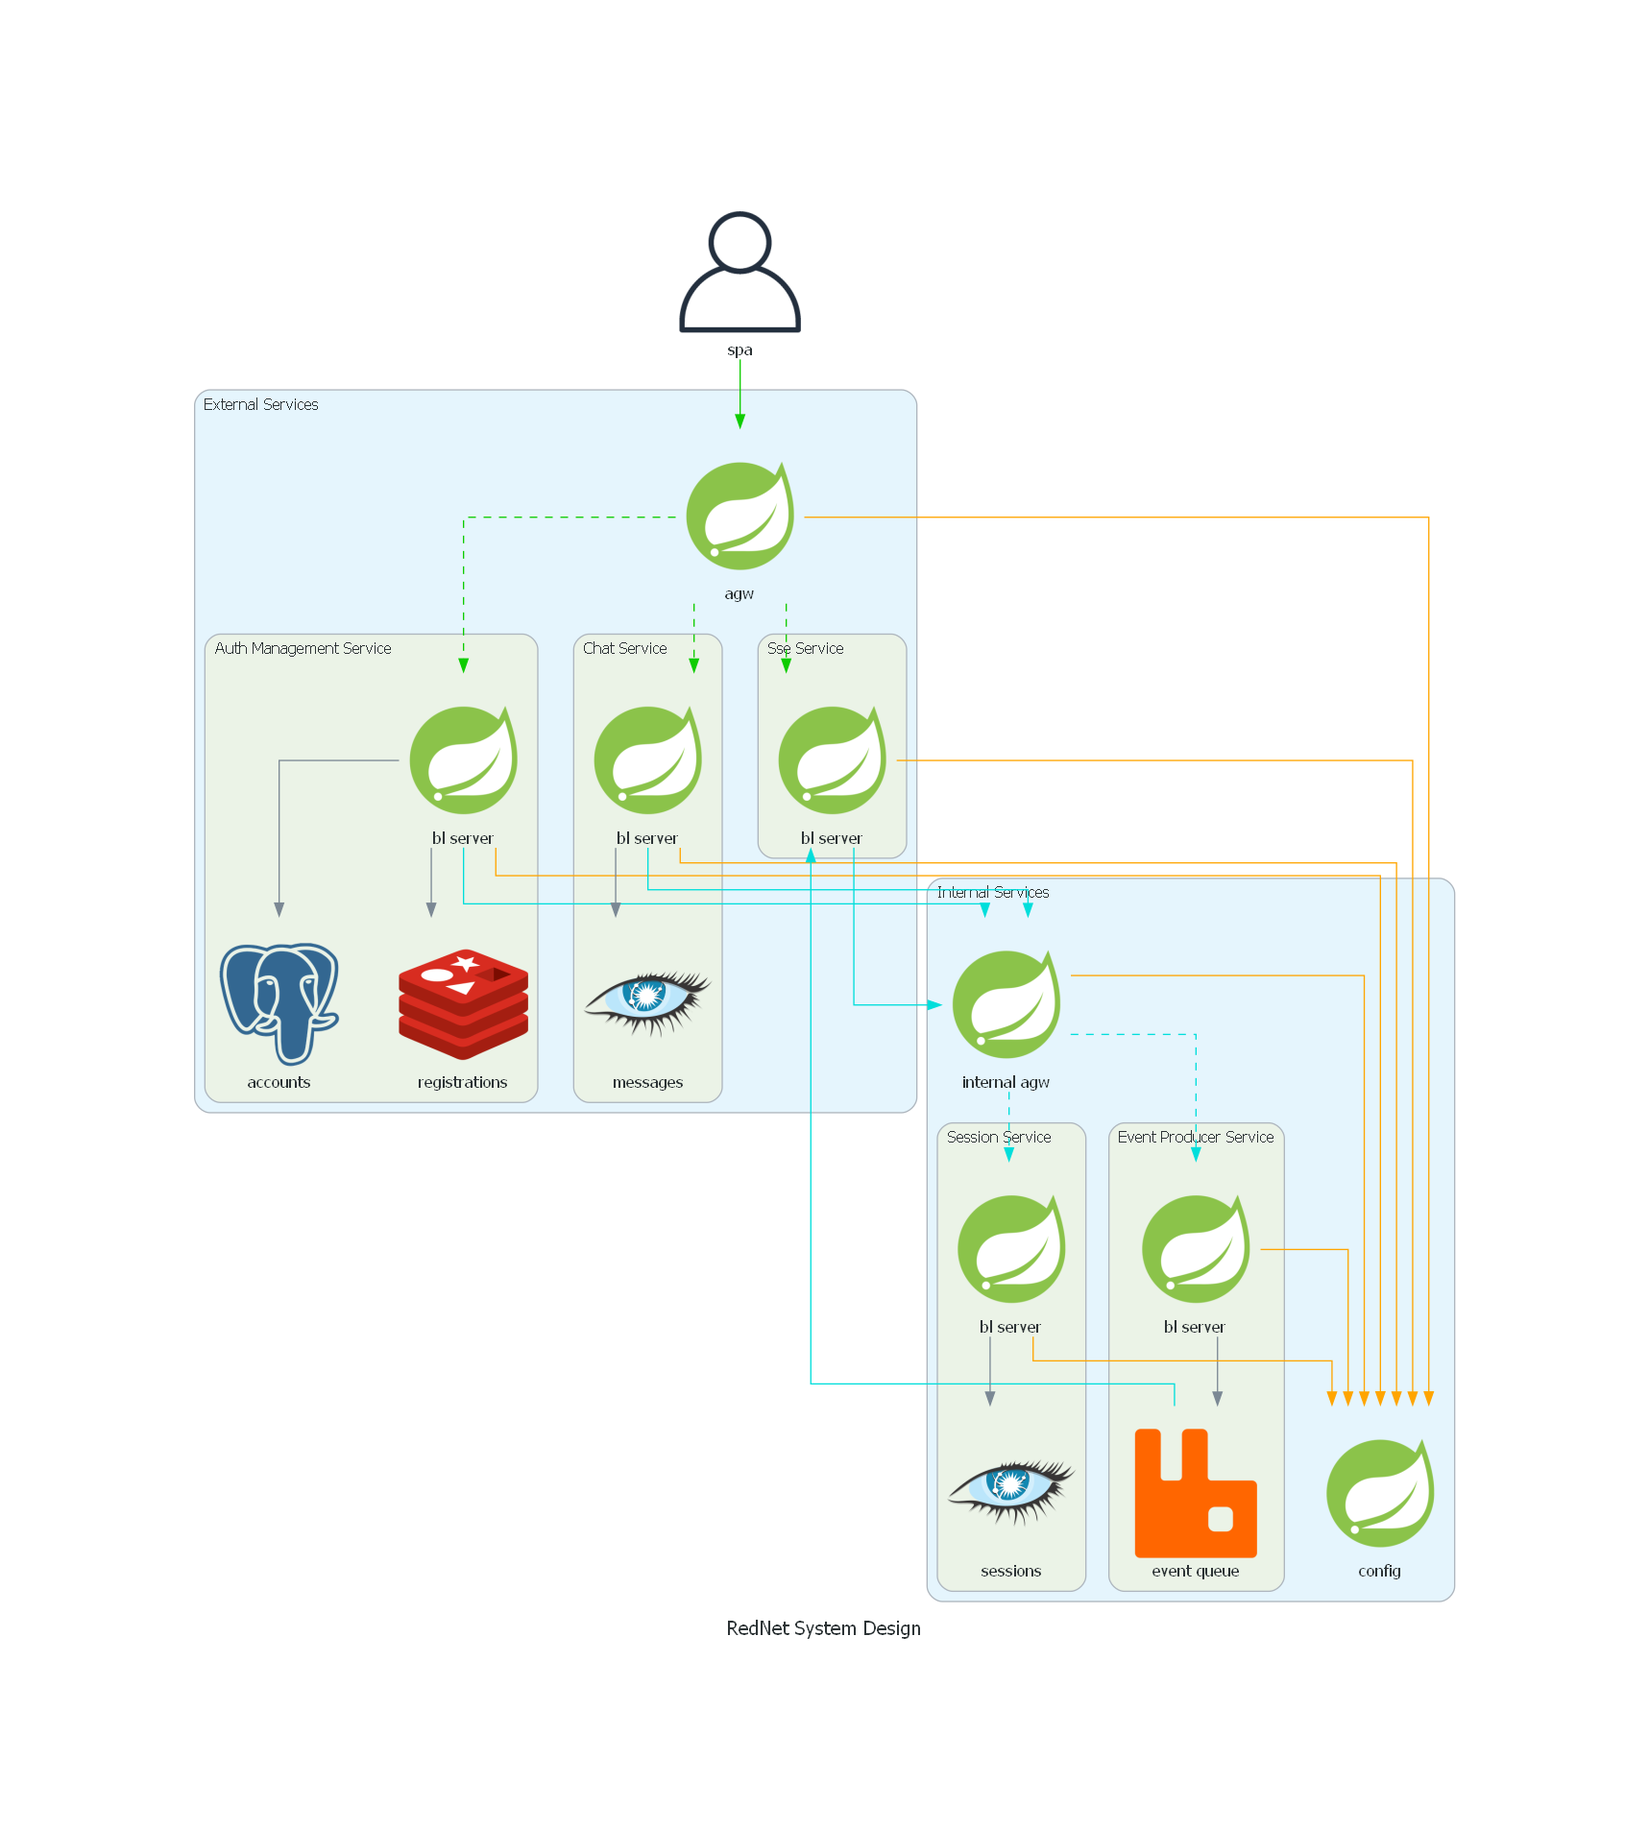
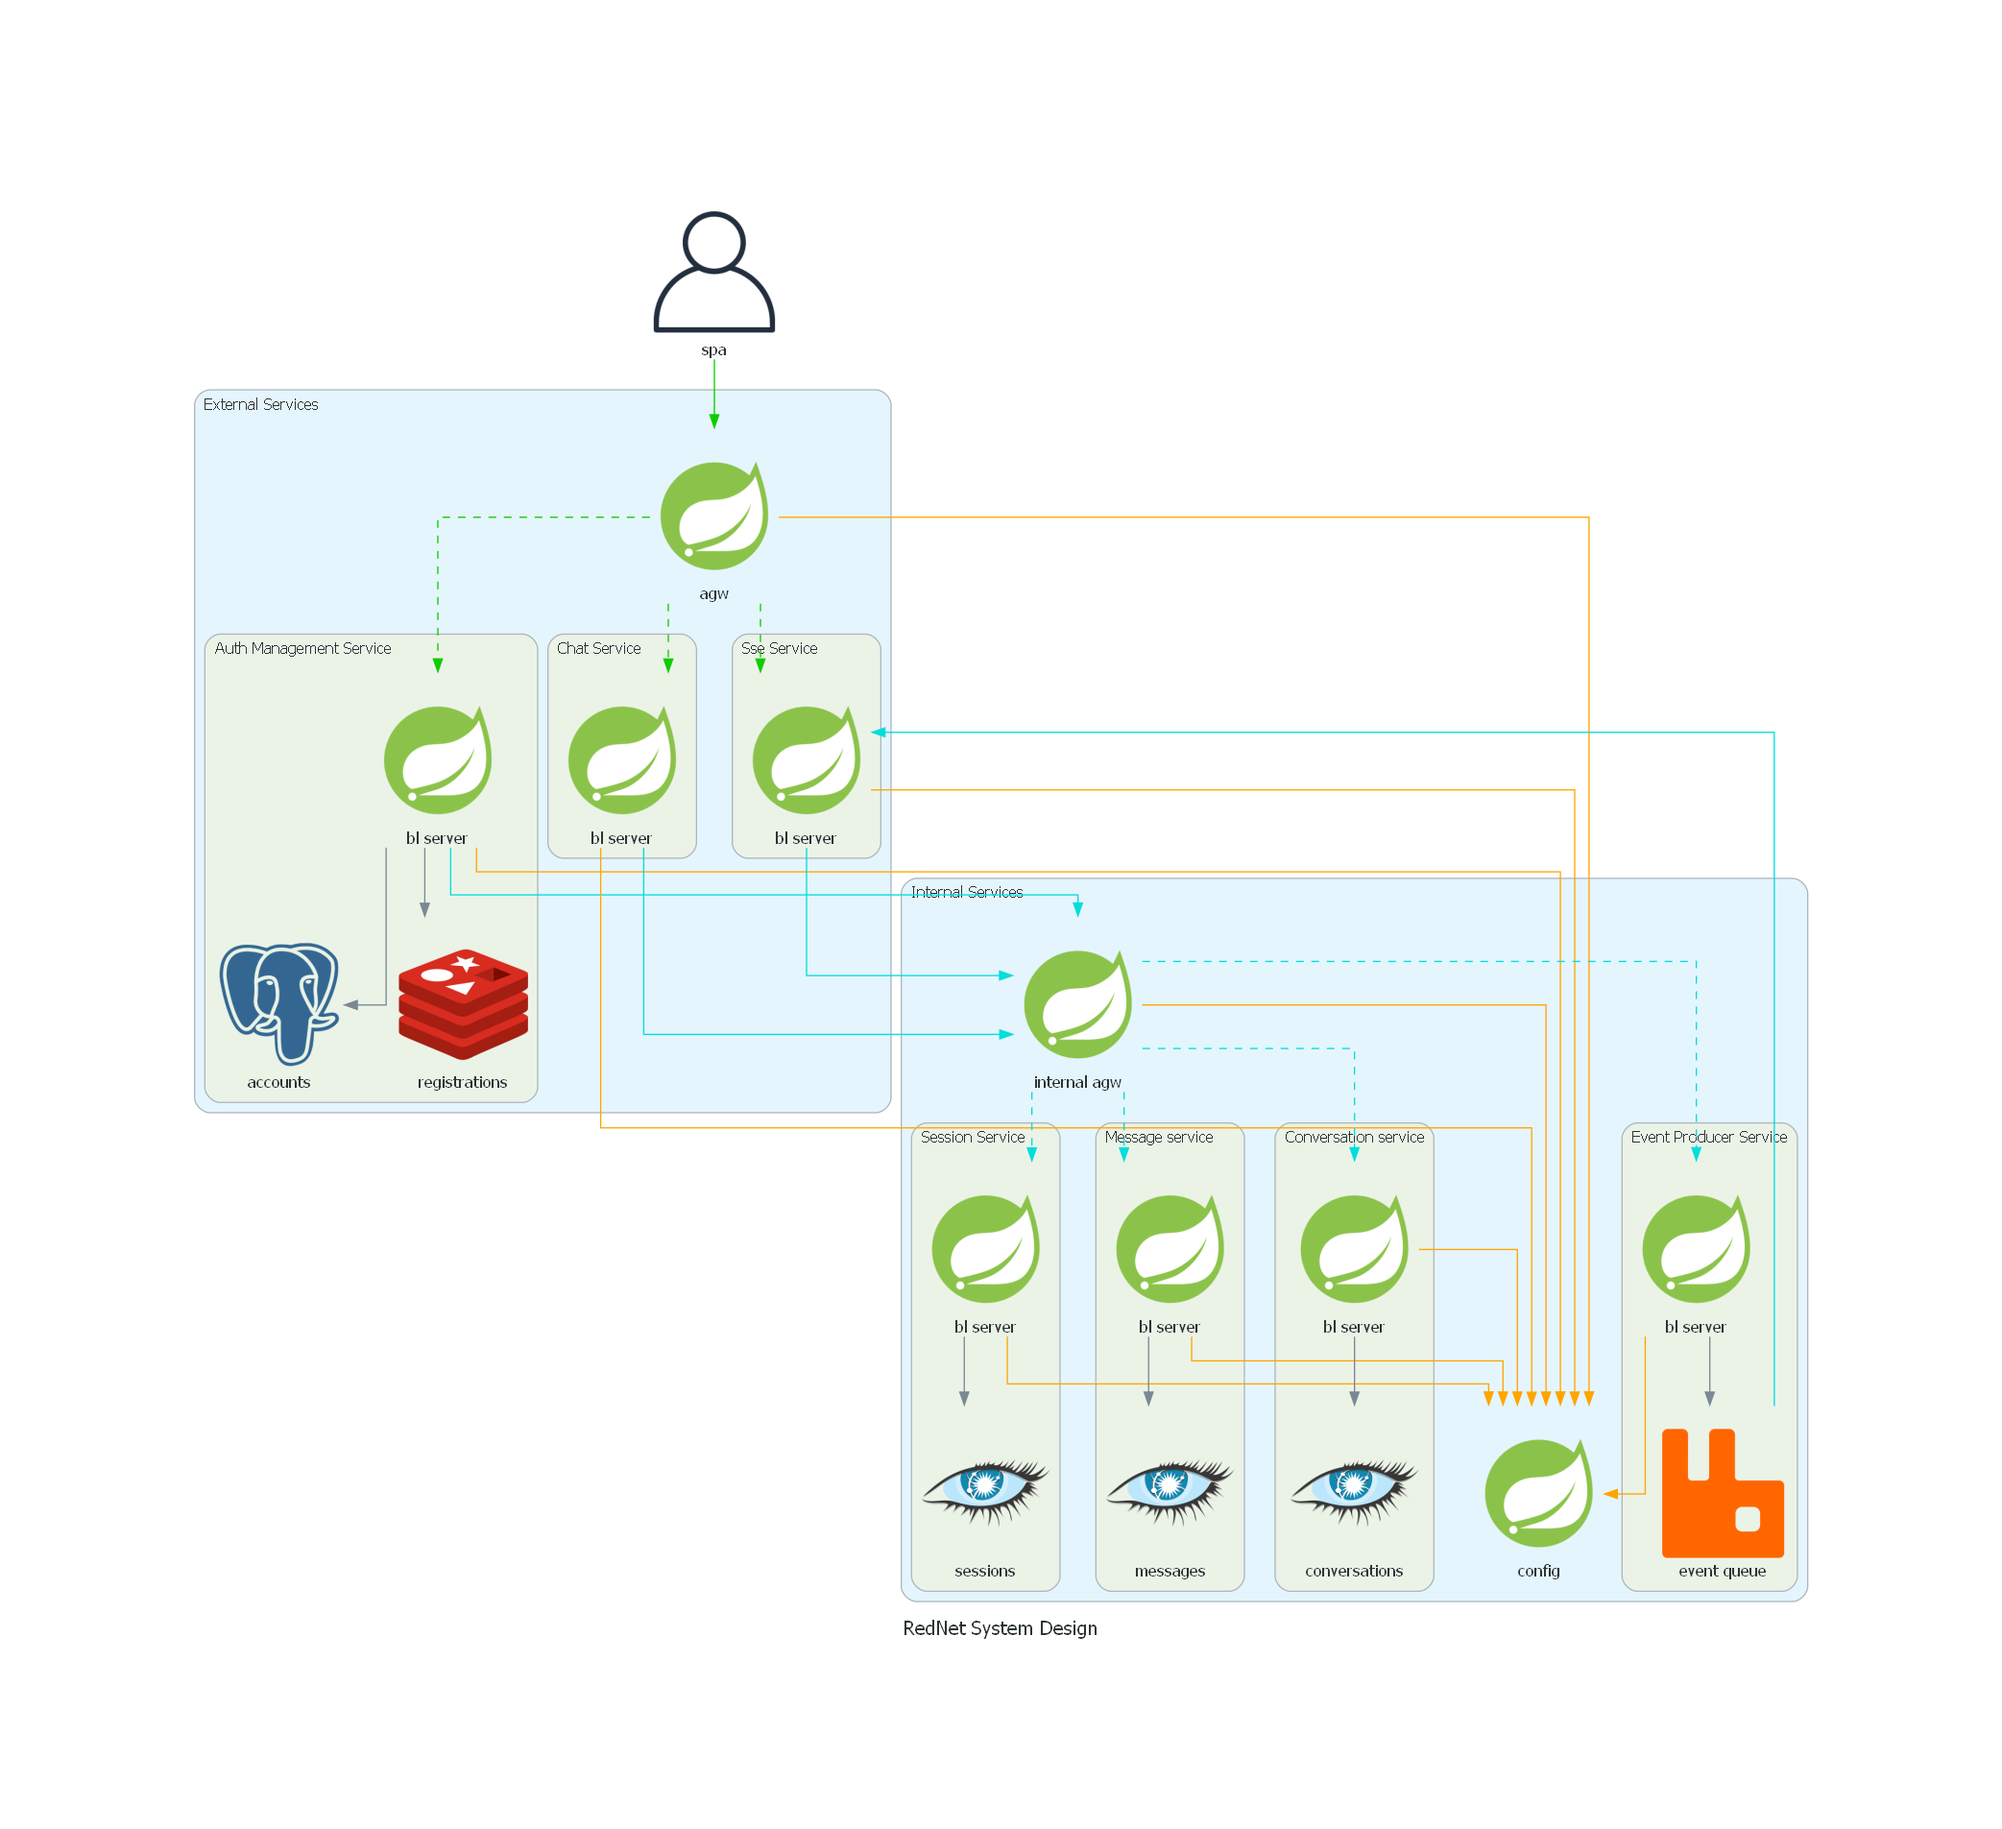
diagram change

Changed region(s): [[0.0926, 0.0929, 0.926, 0.8982]]

diff --git a/system-design-diagram.py b/system-design-diagram.py
@@ -35,9 +35,6 @@ with (Diagram(
 
         with Cluster("Chat Service"):
             chat_logic_server = Spring("bl server")
-            messages_db = Cassandra("messages")
-
-            chat_logic_server >> messages_db
 
     with Cluster("Internal Services"):
         internal_agw = Spring("internal agw")
@@ -55,6 +52,18 @@ with (Diagram(
 
             session_logic_server >> sessions_db
 
+        with Cluster("Message service"):
+            message_bl_server = Spring("bl server")
+            message_db = Cassandra("messages")
+
+            message_bl_server >> message_db
+
+        with Cluster("Conversation service"):
+            conversation_logic_server = Spring("bl server")
+            conversations_db = Cassandra("conversations")
+
+            conversation_logic_server >> conversations_db
+
         external_service_group = [
             auth_logic_server,
             sse_logic_server,
@@ -63,7 +72,9 @@ with (Diagram(
 
         internal_service_group = [
             session_logic_server,
-            event_logic_server
+            event_logic_server,
+            message_bl_server,
+            conversation_logic_server
         ]
 
         services = internal_service_group + external_service_group
@@ -73,15 +84,7 @@ with (Diagram(
             chat_logic_server
         ]
 
-        configurable_service_group = [
-            auth_logic_server,
-            session_logic_server,
-            sse_logic_server,
-            chat_logic_server,
-            agw,
-            internal_agw,
-            event_logic_server
-        ]
+        configurable_service_group = internal_service_group + external_service_group + [agw, internal_agw]
 
     client >> client_request_edge >> agw >> client_proxied_request_edge >> external_service_group
     external_service_group >> server_to_server_edge >> internal_agw >> server_to_server_proxied_edge >> internal_service_group
